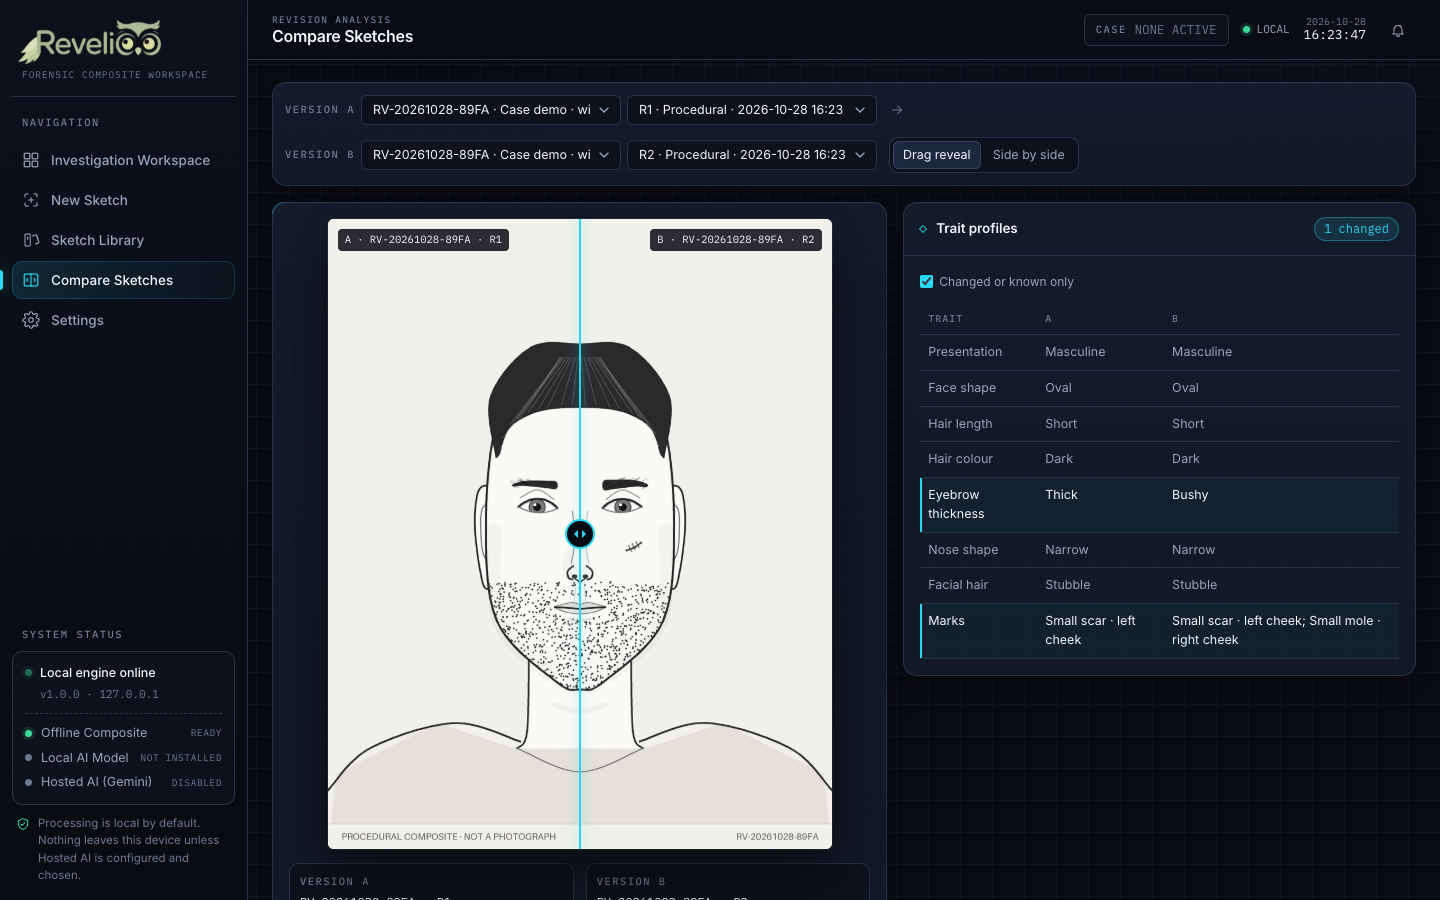
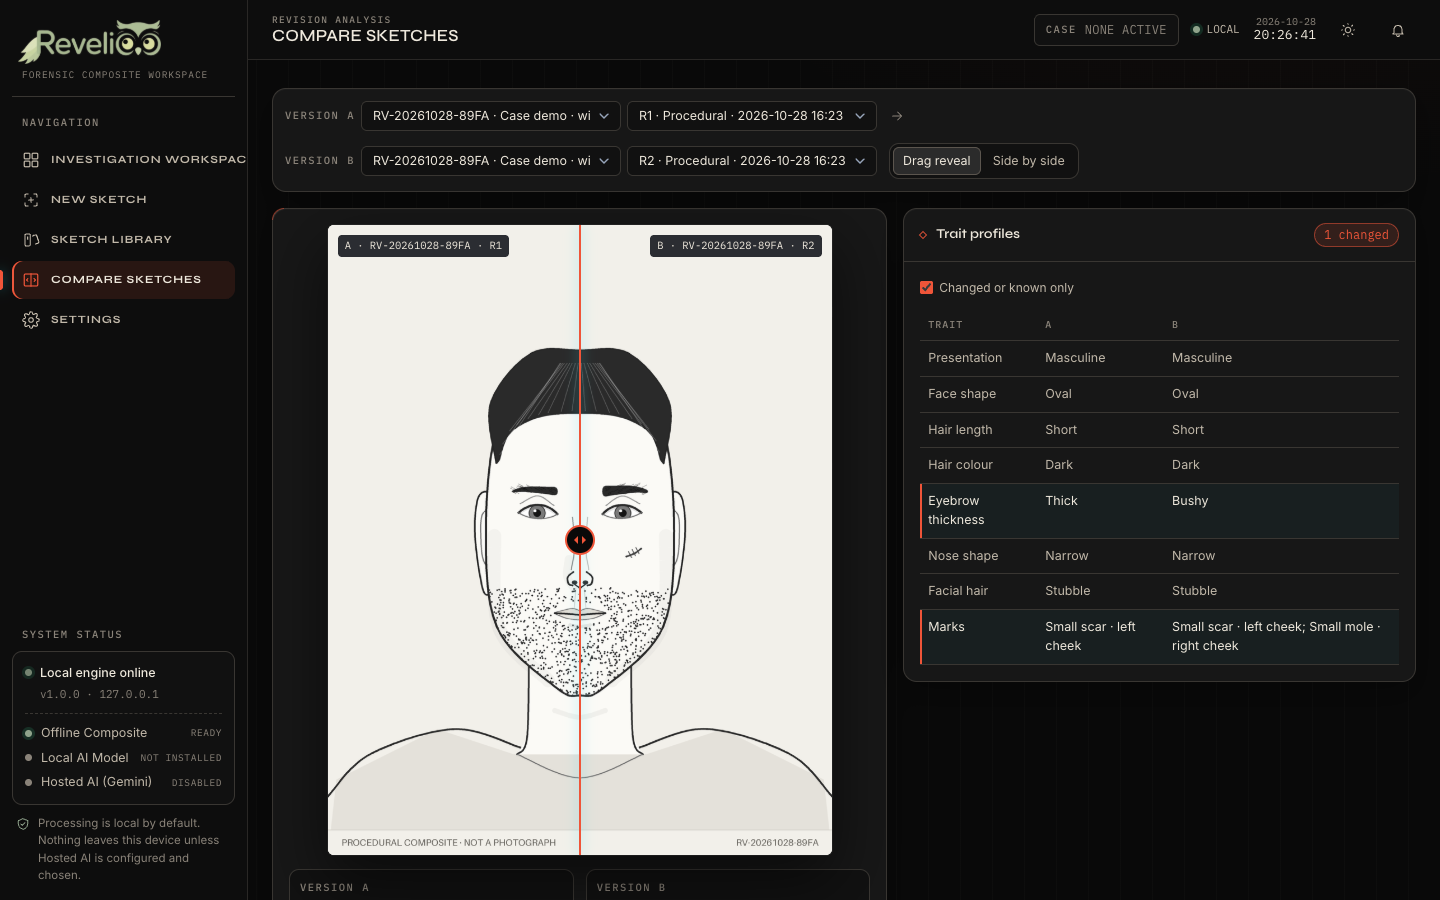
Update README and screenshots for the current UI
Document voice dictation, light/dark themes, the description tabs, the
workspace overview and the landing page sections. Retake all screenshots
and add light-theme and landing demo shots; remove two outdated ones.

diff --git a/README.md b/README.md
@@ -8,7 +8,7 @@ Revelio is an offline-first workstation for AI-assisted facial composite generat
 
 > **Investigative assistance only.** A generated composite is not proof of identity, does not identify anyone automatically, and must never be presented as evidence that a particular person committed a crime. Revelio performs no face recognition and no identity matching.
 
-![Revelio — New Sketch workspace](docs/screenshots/new-sketch.png)
+![Revelio landing page](docs/screenshots/landing.png)
 
 ---
 
@@ -23,22 +23,30 @@ Building a facial composite from a verbal description is slow. Witnesses remembe
 | **Description → structured profile** | Deterministic, local extraction of about 20 facial traits plus distinctive marks. Unmentioned traits stay **unknown**. Contradictions are flagged and left **unresolved**. Hedged statements (“maybe”, “I think”) are marked **uncertain**. “I don’t remember his eyes” is recorded as an explicit unknown. |
 | **Real offline composite renderer** | A procedural vector renderer draws the face from the profile: face shape, jaw, chin, hairline, hair, brows, eyes, nose, mouth, ears, facial hair, eyewear, age lines and marks. It uses no network, no GPU and no model download. It outputs SVG for live preview and PNG for export, both from the same geometry. |
 | **Honest renderer report** | Every result lists which traits were drawn with a neutral default, which are recorded but not drawable (eye colour and skin tone in a monochrome sketch), and which conflicts are pending. Undescribed hair is drawn as a dashed “unspecified” outline, not an invented hairstyle. |
-| **Interactive editor** | Trait editor with provenance badges (*Described / Extracted / Manual / Unknown / Conflict / Uncertain*). Sixteen proportion sliders, mark placement, live re-rendering, undo/redo and reset. |
+| **Three ways to describe** | A free-text **Description** tab, a **Guided** tab that asks about every trait in turn, and a **Witnesses** tab for separate accounts. Extract with the button or <kbd>⌘/Ctrl</kbd> + <kbd>Enter</kbd>. |
+| **Voice dictation** | A *Dictate* button on the description, observations, witness and refinement fields uses the browser's built-in speech recognition. It appends to the text you already have and never submits anything on its own. Works in Chrome, Edge and Safari. Browsers without speech recognition, such as Firefox, don't show the button. Brave and embedded browser views do show it, but there it explains why dictation can't run there, without trying and failing silently. |
+| **Interactive editor** | Trait editor with provenance badges (*Described / Extracted / Manual / Unknown / Conflict / Uncertain*). Sixteen proportion sliders, mark placement, live re-rendering, undo/redo (<kbd>⌘/Ctrl</kbd> + <kbd>Z</kbd>) and reset. A pipeline bar across the top shows the real state of each step: description, trait profile, operator review, composite and revision. |
 | **Natural-language refinement** | Commands like “Make the eyebrows thicker”, “Add a small scar on the left cheek” or “Make the jaw narrower” are parsed locally. You review and edit the proposed changes before anything is applied. Requests that are no-ops are reported as such, never faked. |
+| **Investigation workspace** | The overview shows saved sketches, drafts in progress, revisions recorded and the last-used generation mode, plus recent sketches, unfinished work, recent activity and provider status. The library supports search by title, sketch ID or description, and you can switch a sketch between draft and final. |
 | **Revisions & comparison** | Every save is an immutable revision in SQLite. Compare any two revisions with a drag-to-reveal slider or side by side, alongside a trait-by-trait diff. There are no similarity scores or identity probabilities. |
 | **Multi-witness merge** | Compare 2–4 independent accounts. Traits are classified as shared, conflicting, single-source or unmentioned. The operator must resolve every conflict before the combined profile can be applied. |
 | **Exports** | PNG, JSON (confirmed traits, unknown traits, conflicts, revision history) and a printable HTML report (print to PDF) with the required disclaimer. |
+| **Light and dark themes** | A theme toggle in the workspace top bar and the landing-page nav. Dark uses charcoal with coral accents, and light uses cream with green accents. The choice is remembered in this browser. |
 | **Optional AI providers** | A replaceable provider interface. Hosted Gemini is **off by default** and configured on the backend only. A local diffusion model is detected and documented, but not shipped (see below). AI output is always labelled AI-generated, and failures never fall back silently. |
 
 ### Screenshots
 
-| Landing page (`/`) | Workspace (`/app`) |
+| Workspace overview (`/app`) | New sketch editor (`/app#/new`) |
 |---|---|
-| ![Landing page](docs/screenshots/landing.png) | ![Workspace](docs/screenshots/workspace.png) |
-| **Before / after** | **Compare revisions** |
-| ![Before and after](docs/screenshots/before-after.png) | ![Compare](docs/screenshots/compare.png) |
-| **Library** | **Settings & providers** |
-| ![Library](docs/screenshots/library.png) | ![Settings](docs/screenshots/settings.png) |
+| ![Workspace](docs/screenshots/workspace.png) | ![New sketch](docs/screenshots/new-sketch.png) |
+| **Light theme · workspace** | **Light theme · editor** |
+| ![Workspace, light theme](docs/screenshots/workspace-light.png) | ![Editor, light theme](docs/screenshots/new-sketch-light.png) |
+| **Landing · live demo** | **Landing · editor showcase** |
+| ![Landing live demo](docs/screenshots/landing-demo.png) | ![Landing editor showcase](docs/screenshots/landing-editor.png) |
+| **Compare revisions** | **Library** |
+| ![Compare](docs/screenshots/compare.png) | ![Library](docs/screenshots/library.png) |
+| **Settings & providers** | **Landing · light theme** |
+| ![Settings](docs/screenshots/settings.png) | ![Landing, light theme](docs/screenshots/landing-light.png) |
 
 Procedural composites generated from eight different descriptions. The bottom-left one has no hair description, so its hair is drawn as “unspecified”:
 
@@ -83,18 +91,21 @@ backend/
     services/            trait_extractor · procedural_renderer · refinement_service
                          merge_service · sketch_service · report · uploads
     providers/           base · offline_provider · local_provider · hosted_provider · registry
-  tests/                 56 pytest tests
+  tests/                 59 pytest tests
 src/
   main.jsx             Route switch: / → landing page, /app → workspace (separate lazy bundles)
   landing/             Landing page (Lumora-inspired); reuses the API client, renderer and CompareSlider
   api/client.js          API client (no credentials ever pass through the browser)
   state/AppContext.jsx   Catalog, engine status, toasts, preferences, active case
-  components/            brand · shell · ui · sketch (viewer, editor, refine, merge…)
+  components/            brand · shell (sidebar, top bar, boot screen) · sketch (viewer, editor,
+                         refine, merge, pipeline…) · ui (dictation, theme toggle, modals…)
+  lib/                   router · nav · format · theme
   pages/                 Workspace · NewSketch · Library · Compare · Settings
+public/landing/          Pre-rendered hero composites (from scripts/render-landing-assets.py)
 scripts/                 run-api.mjs · dev-all.mjs · render-landing-assets.py
 ```
 
-**Technology:** React 19, Vite 8, plain CSS design system (Inter + IBM Plex Mono), FastAPI, Pydantic 2, SQLite, Pillow and pytest. The frontend adds no new dependencies. Animations are CSS keyframes, with `requestAnimationFrame` only where needed, and they respect `prefers-reduced-motion`.
+**Technology:** React 19, Vite 8, plain CSS design system with dark and light themes (Syne for display type, Inter for text, IBM Plex Mono for data), FastAPI, Pydantic 2, SQLite, Pillow and pytest. The frontend adds no new dependencies. Animations are CSS keyframes, with `requestAnimationFrame` only where needed, and they respect `prefers-reduced-motion`.
 
 ---
 
@@ -135,18 +146,20 @@ npm run dev:web     # Vite only, on http://127.0.0.1:5173 (proxies /api to the e
 ```bash
 npm run lint        # ESLint
 npm run build       # production build
-npm run test:api    # backend pytest suite (56 tests)
+npm run test:api    # backend pytest suite (59 tests)
 ```
 
 ### Offline use
 
 After installation, the whole core workflow runs with **no network access**: extraction, refinement, merge, rendering, saving, comparison and export. A test (`test_offline_workflow_without_network`) blocks all sockets and runs the workflow. Without internet, the interface falls back from the Google-hosted fonts to system fonts.
 
+Voice dictation is the exception. It relies on the browser's speech service, and depending on the browser, that service may process audio on a remote server. Typing always works offline.
+
 ---
 
 ### Landing page
 
-The landing page at `/` presents the product with a short, skippable intro, and its demos are real:
+The landing page at `/` opens with a short intro (skip it with <kbd>Esc</kbd> or <kbd>Enter</kbd>; it plays once per browser session and never with reduced motion). It then runs through the hero, a live demo, the editor showcase, features, how it works, privacy and capabilities, pricing and an FAQ. The nav has the same light/dark toggle as the workspace. Its demos are real:
 
 - **Live demo:** a visitor types a fictional description, and the page calls the local engine to extract traits and render a procedural composite. Visitors can change traits and sliders, regenerate, and download the PNG.
 - **Editor showcase:** a second live renderer instance with real sliders, in-page demo revisions and a before/after slider.
@@ -194,8 +207,19 @@ A local diffusion model (for example Stable Diffusion 1.5) needs roughly **8 GB 
 - **No biometric processing.** There is no face detection, recognition, identity matching or sensitive-attribute inference.
 - **Deletion.** Delete a single sketch with all its revisions and image files from the Library, or wipe all local data from Settings (type `DELETE` to confirm).
 - **Data location.** `backend/data/` holds `revelio.db` and `images/` (override with `REVELIO_DATA_DIR`).
+- **Browser storage.** The browser keeps only interface preferences, the theme choice and one unsaved draft (`revelio.*` keys in local storage).
+- **Dictation.** Speech recognition is provided by the browser, not by Revelio. Revelio never records or stores audio, but the browser's speech service may send audio off the device.
 
 These are engineering safeguards for a local demo. They are not a claim of legal compliance or enterprise-grade security.
+
+### Upgrading from VeriSketch AI
+
+The project was previously called VeriSketch AI. Existing installs keep working:
+
+- `VERISKETCH_*` environment variables are still read when the matching `REVELIO_*` variable isn't set.
+- An existing `backend/data/verisketch.db` is renamed to `revelio.db` the first time the engine starts.
+- Old `VS-…` sketch IDs stay valid. New sketches get `RV-…` IDs.
+- Saved browser drafts and preferences are carried over automatically.
 
 ## Known limitations
 
@@ -203,6 +227,7 @@ These are engineering safeguards for a local demo. They are not a claim of legal
 - Trait extraction is rule-based English. Unusual phrasing may be missed, but missed traits stay **unknown** rather than becoming wrong. The guided questions cover every trait.
 - Real hosted generation has not been verified with a working API key.
 - Single-user, local-only: no accounts, sync or audit-grade chain of custody.
+- Voice dictation depends on browser support. It is unavailable in Firefox, Brave and embedded browser views.
 
 ## Future improvements
 
